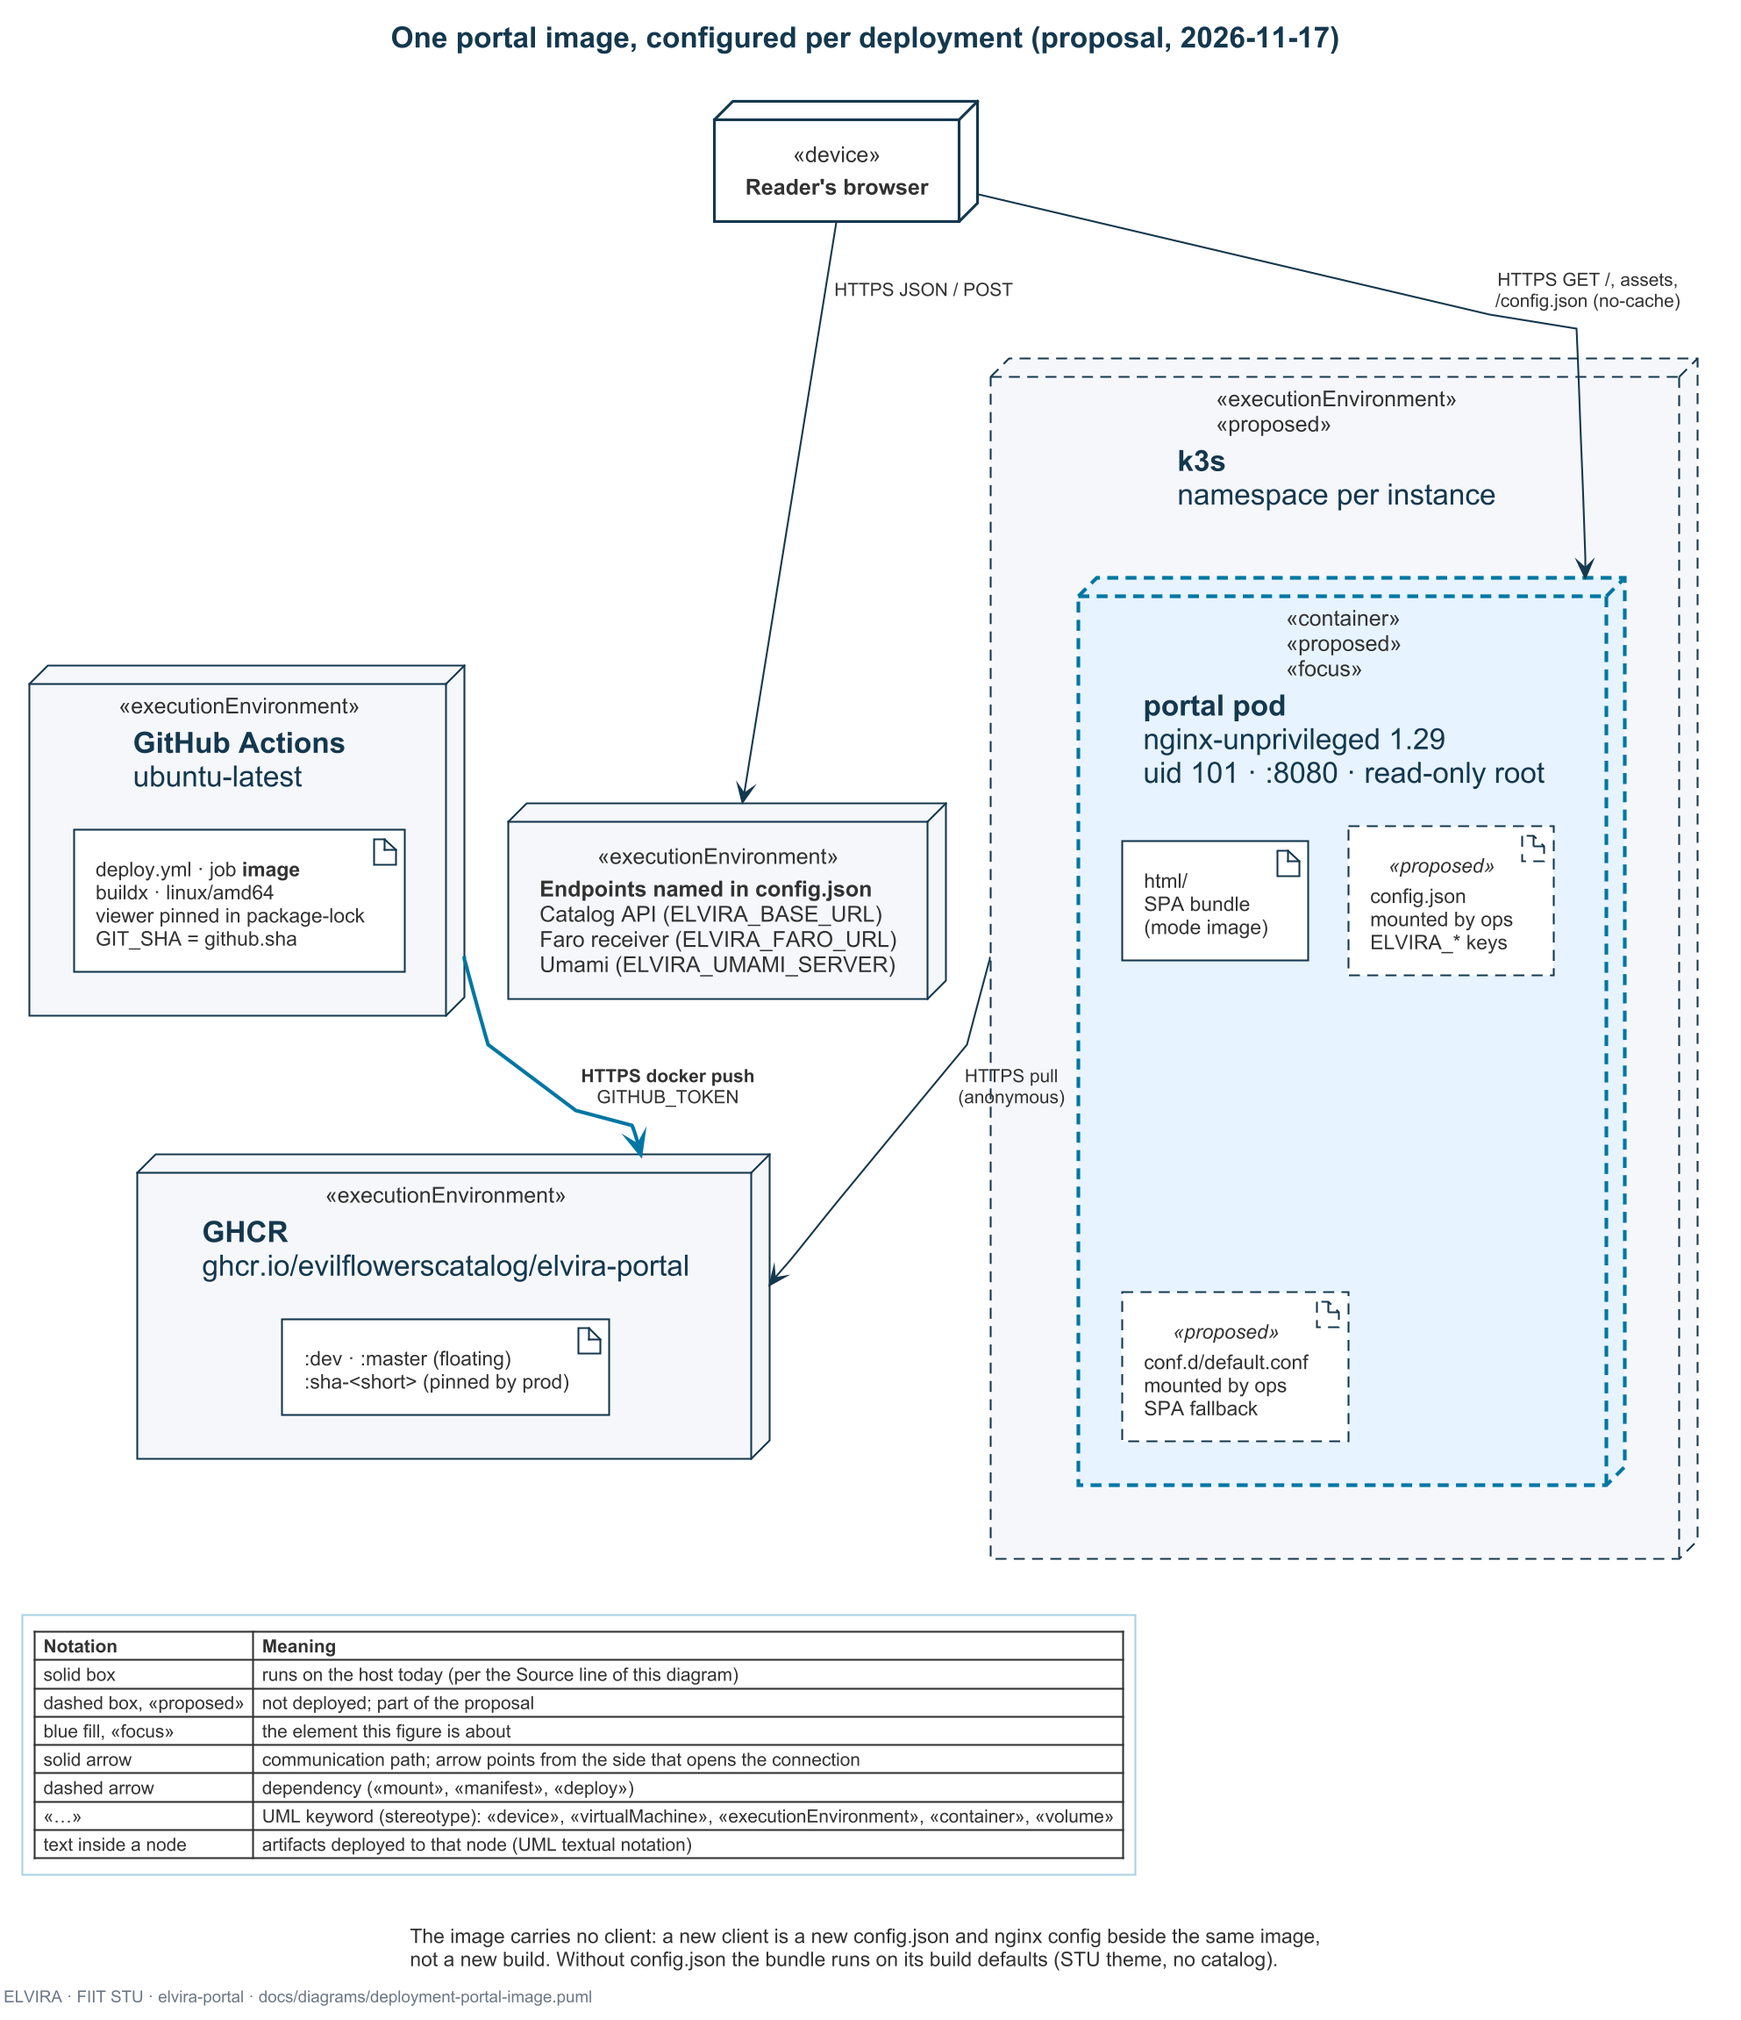
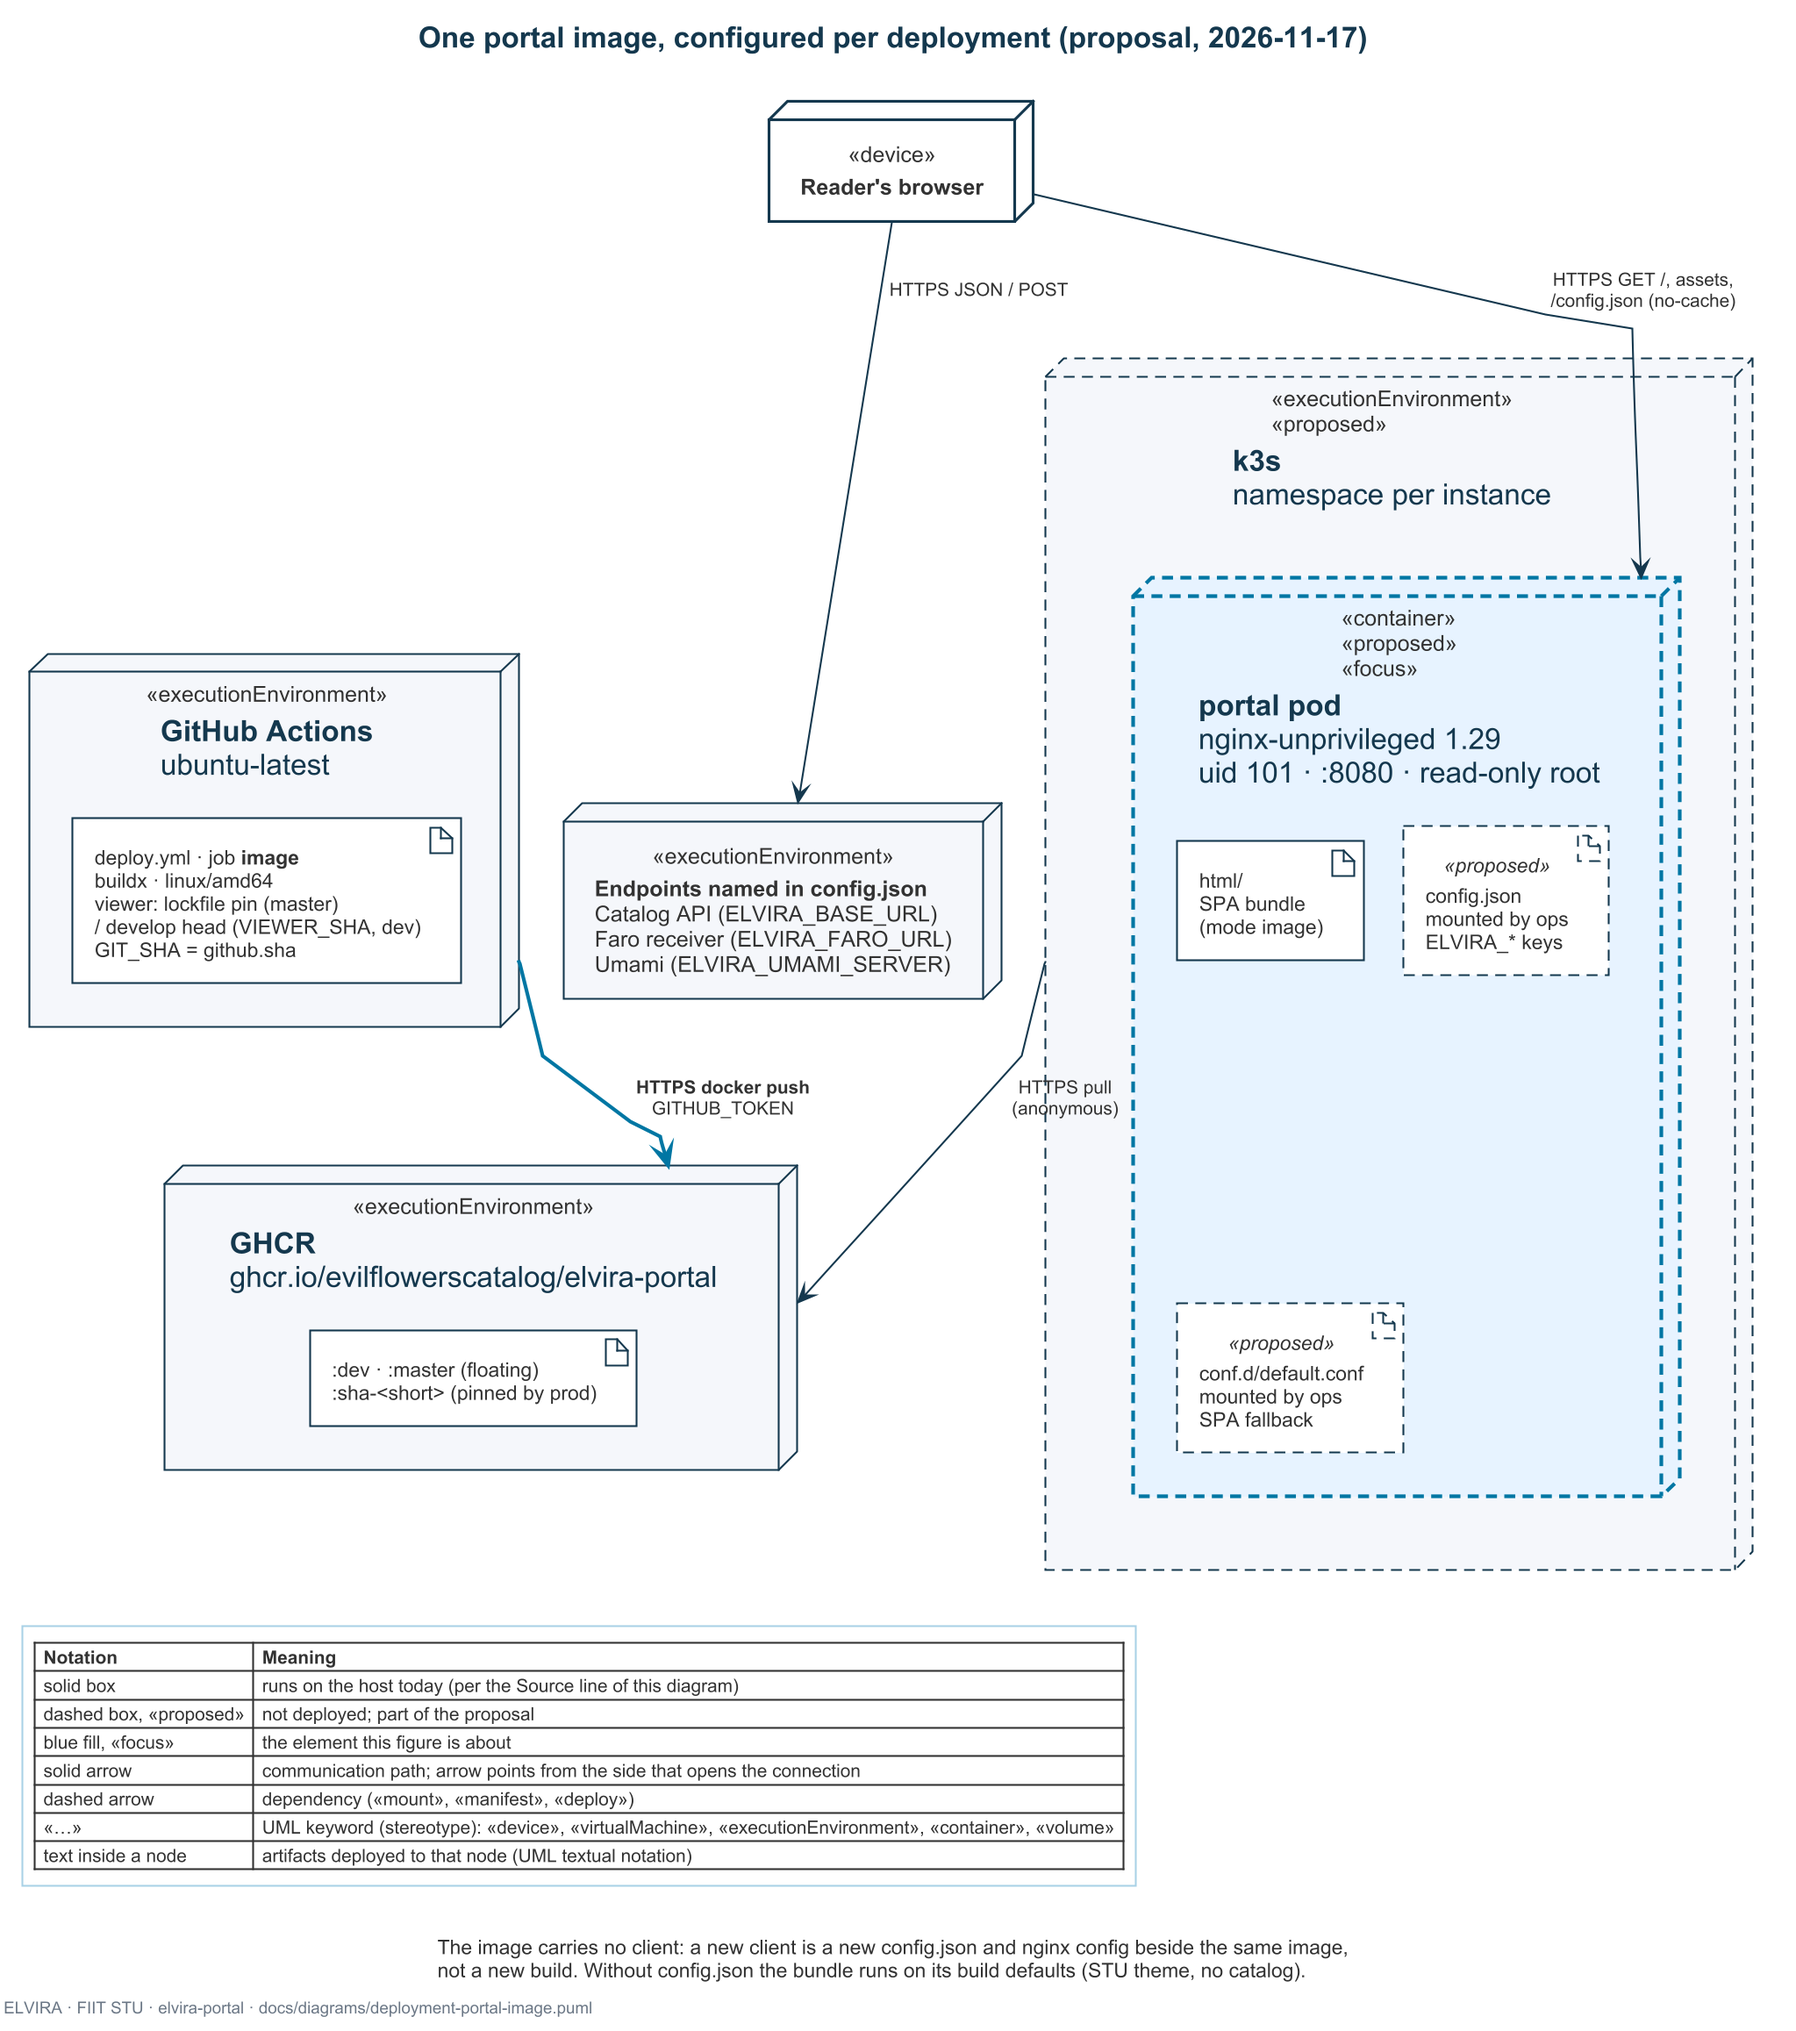
KU autodeploys + JPX fix

diff --git a/README.md b/README.md
@@ -157,8 +157,10 @@ The reader (`src/pages/common/Viewer.tsx`) loads the PDF one of two ways (elvira
   `'unsafe-eval'` needed.
 - One loading screen (`ReaderLoader`: cover, title, status) covers the wait from the click to the first painted
   page, the viewer's own spinner included.
-- The viewer is a git dependency pinned to an EvilFlowersViewer commit in `package-lock.json` (every build and
-  image uses it). Bump it with `npm install github:EvilFlowersCatalog/EvilFlowersViewer#<sha>`.
+- The viewer is a git dependency pinned to an EvilFlowersViewer commit in `package-lock.json`: local installs
+  and every `master` build/image use it (bump with `npm install github:EvilFlowersCatalog/EvilFlowersViewer#<sha>`).
+  `dev` builds (dev.elvira.stuba.sk, e-knihy.ku.sk, `:dev` image) replace it with the head of viewer `develop`,
+  resolved once per run (see Deploy).
 
 ![Reader: PDF streaming from a signed URL](docs/diagrams/sequence-reader-streaming.svg)
 
@@ -203,7 +205,11 @@ Gate new UI with `useFeature('<key>')`, routes with `<RequireFeature feature='<k
   EvilFlowersViewer `develop`). Push to `dev`: the `deploy-ku` job in `.github/workflows/deploy.yml`
   builds with `npm run build:ku` (`env/.env.ku`), joins the private network, uploads a release and swaps
   `current` (last 5 kept). Rollback = re-run an older successful run. `https://e-knihy.ku.sk/version.json`
-  names the live release.
+  names the live release and the viewer commit (`viewer`).
+- **Viewer on dev** — the `viewer` job resolves EvilFlowersViewer `develop` to a commit at the start of each
+  run; the dev deploy, the KU deploy and the `:dev` image all install exactly that commit over the lockfile
+  pin and fail if a different one ends up in `node_modules`. The run summary names it. A new viewer commit
+  alone does not start a run: push to `dev`, or Actions › Deploy › Run workflow on `dev`.
 
   The host side (deploy account, network ACL, GitHub Environment `e-knihy.ku.sk`, `releases/` +
   `current` layout) is EvilFlowersCatalog/knowledge#83; the catalog's minimal-instance settings
